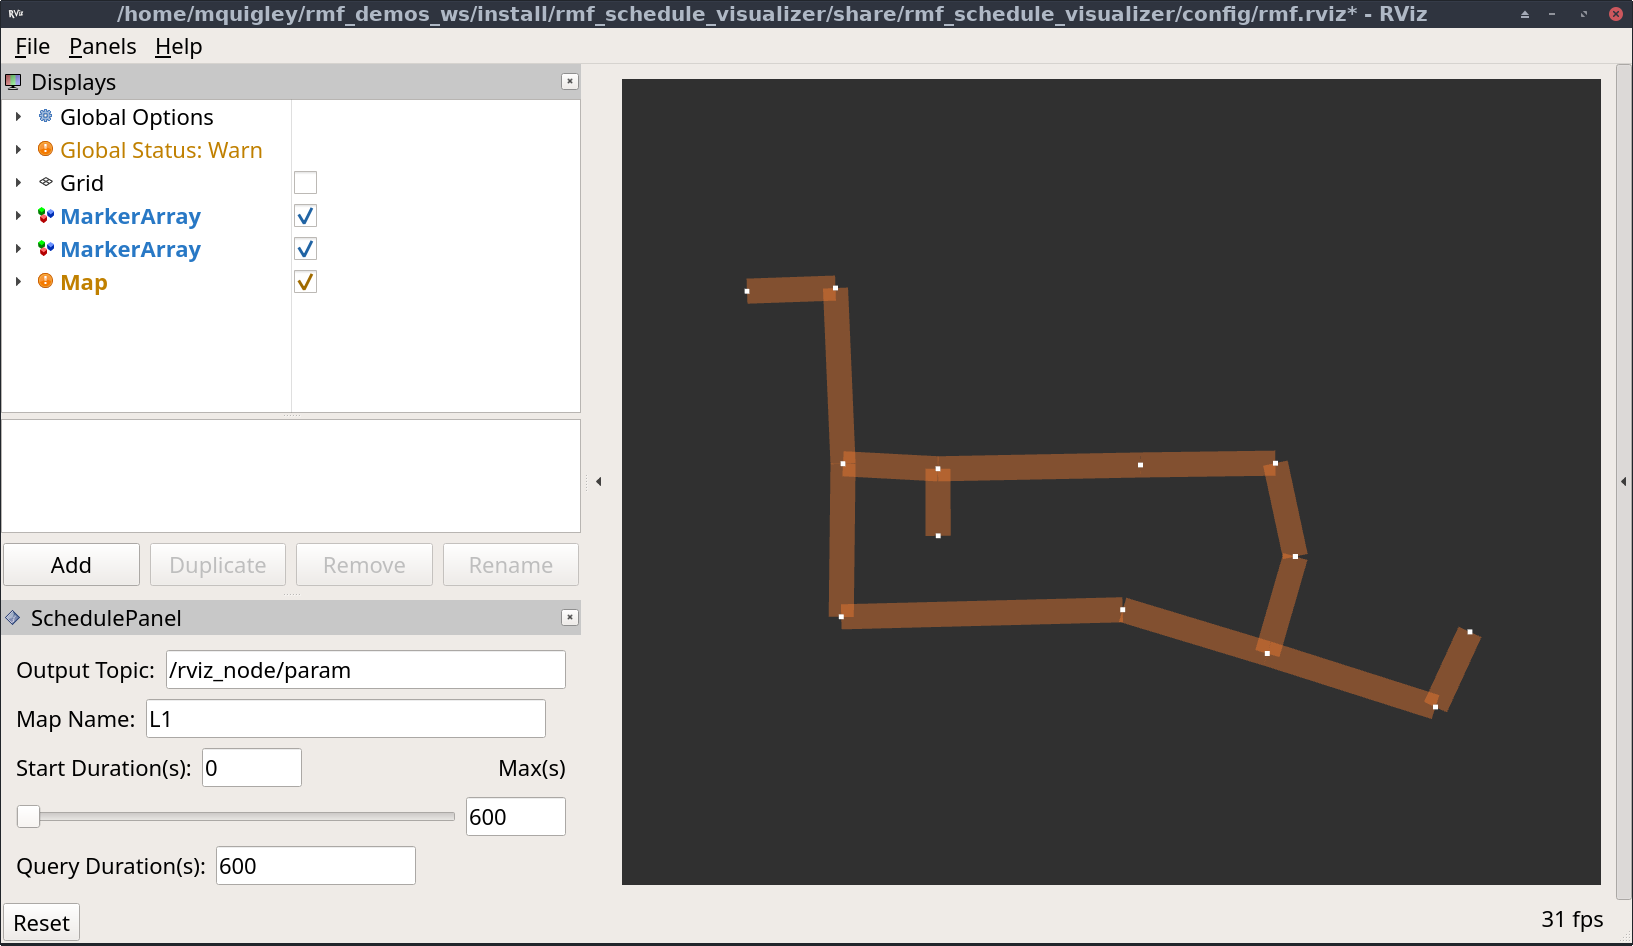
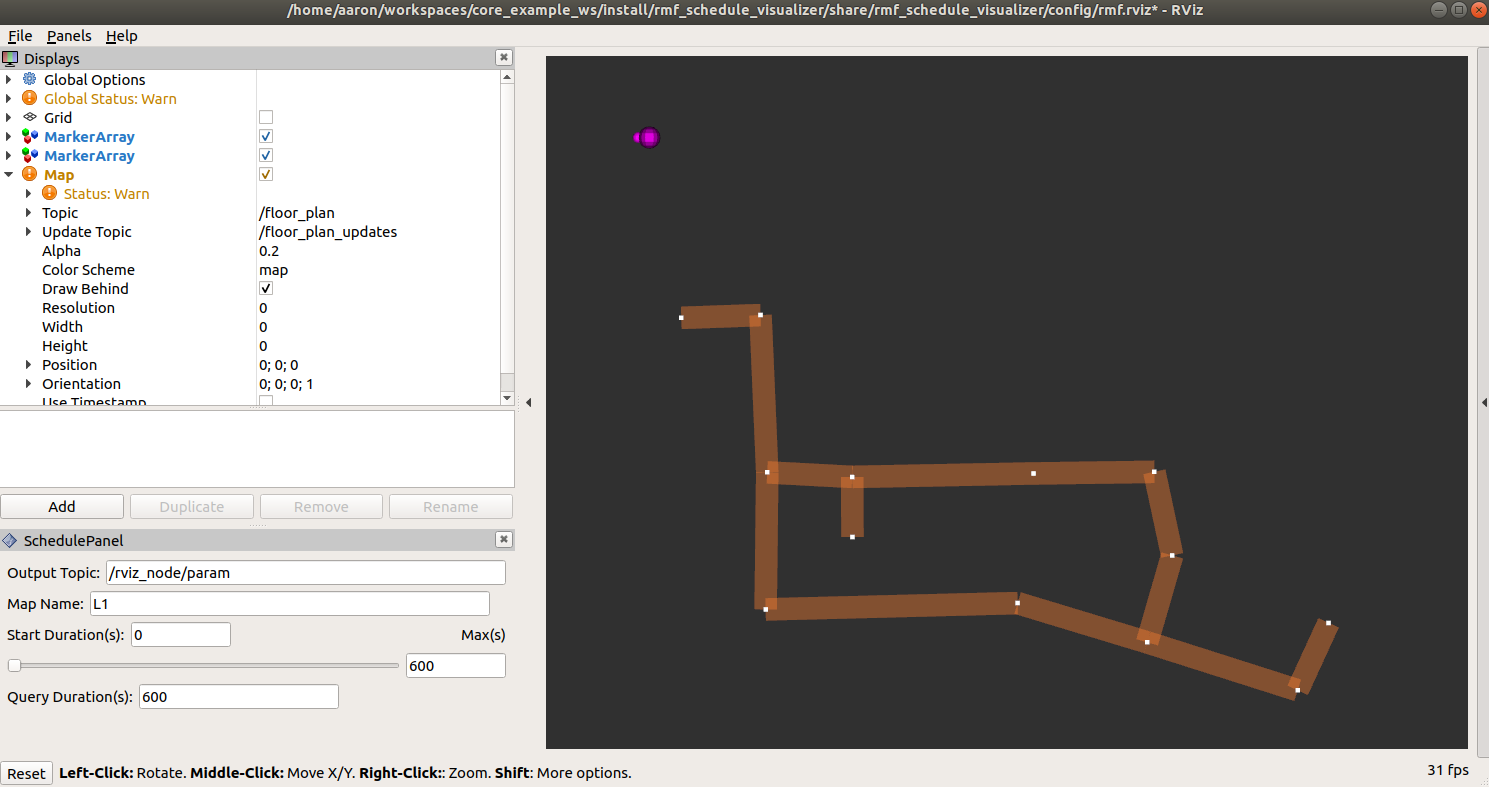
changed the image, made fake robot slower for screenshot

Changed region(s): [[0.0, 0.0, 1.0, 1.0], [0.4325, 0.2745, 0.9268, 0.8844]]

diff --git a/rmf_demo_fleets/src/FakeFleet.cpp b/rmf_demo_fleets/src/FakeFleet.cpp
@@ -101,8 +101,8 @@ private:
 
     robot.location = robot.path[robot.path.size() - 1];
     robot.location.t = steady_clock->now();
-    robot.location.x += 0.01;
-    robot.location.y -= 0.01;
+    robot.location.x += 0.005;
+    robot.location.y -= 0.005;
 
     robot.path.clear();
     for (int i = 0; i < 10; ++i)
@@ -110,8 +110,8 @@ private:
       Location wp;
       wp = robot.location;
       wp.t.sec += 1 * (i + 1);
-      wp.x += 0.01 * (i + 1);
-      wp.y -= 0.01 * (i + 1);
+      wp.x += 0.005 * (i + 1);
+      wp.y -= 0.005 * (i + 1);
       robot.path.push_back(wp);
     }
 

diff --git a/README.md b/README.md
@@ -71,9 +71,8 @@ When the launch is done, a seemingly empty`rviz2` will have been opened. Toggle 
 
 <img src="media/office_rviz.png" width="800px"/>
 
-The fake robot in the launched fake fleet, can also be seen moving diagonally away from the center of the map, indicated by a small marker.
+There will be a 180 degree angle offset, which can be fixed by further parameterizing the demo map.
 
-## Shut Down
+The fake robot in the launched fake fleet, can also be seen moving diagonally away from the center of the map, indicated by a small purple marker.
 
-
-
+In order to shut it down, use `Ctrl+C` on the terminal that launched the system via `ros2 launch ...`.
